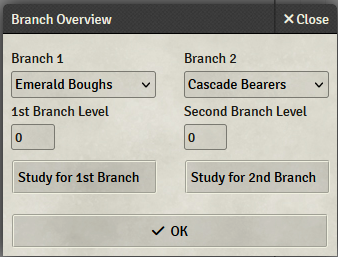
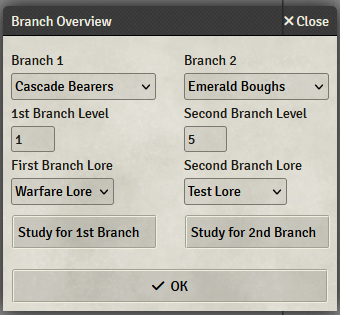
Readme changes.

Changed region(s): [[0.0, 0.0311, 1.0, 1.0], [0.9763, 0.0, 1.0, 0.0623], [0.7988, 0.0, 0.8284, 0.0311]]

diff --git a/README.md b/README.md
@@ -1,13 +1,13 @@
 # What is Magaambya Study Helper
 
-The Magaambya Study Helper helps you keep track of your levels in the branches of the Magaambya. It also support you in rolling for Studying/Research.
+The Magaambya Study Helper is a module for the Pathfinder 2e Foundry system. It is specifically made for parties playing through the "Strength of Thousands" Adventure Paths. The module helps you keep track of your current levels in the branches of the Magaambya. It also supports you with Study/Research rolls made when trying to level up in those branches.
 
 # How does it work?
 
 When you open a Player Character Actor, the header will have a new button "Magaambya Helper". Click on that button and in the popup that opens, you can configure your current branches and branch levels.
 ![Sheet Header](img/actor-header.png)
 
-Change your branch and levels in this popup and click "OK" to save the changes to the actor.
+Change your branch, levels and one of your Lores per branch in this popup and click "OK" to save the changes to the actor.
 
 ![Branch Popout](img/branch-overview.png)
 
